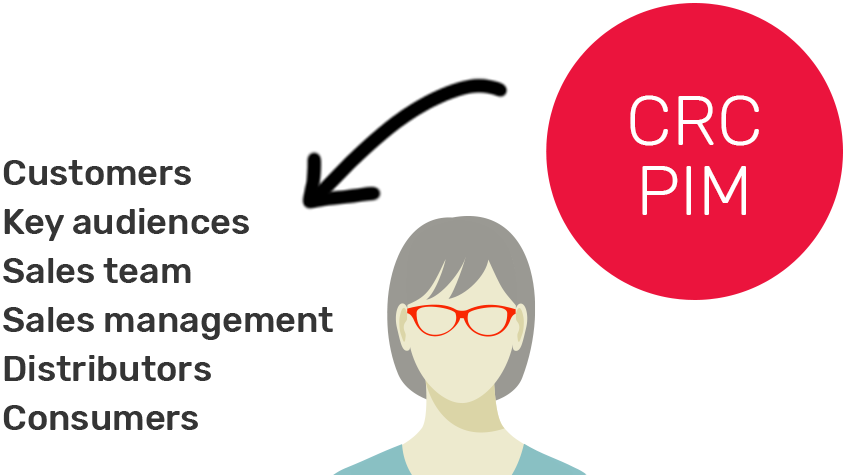
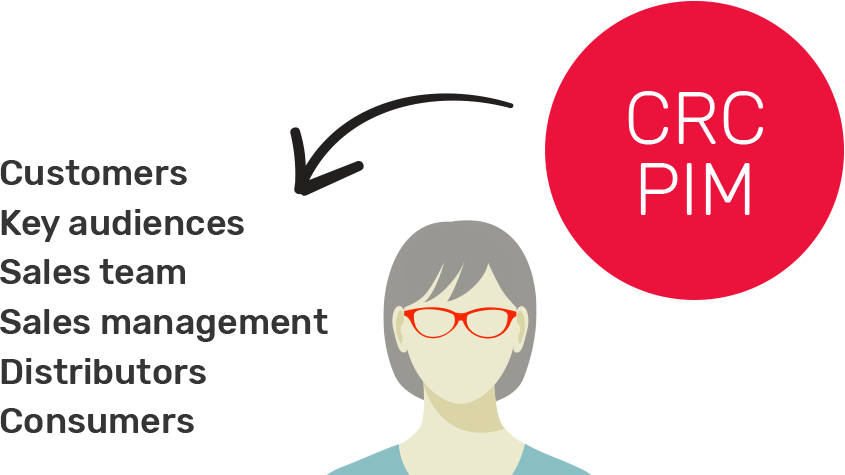
Minor styling edits.

diff --git a/index.html b/index.html
@@ -8,7 +8,7 @@
 		<title>CRC PIM</title>
 		<link rel="stylesheet" href="https://fonts.googleapis.com/css?family=Rubik:300,300i,400,400i,500,500i">
 		<link rel="stylesheet" href="css/animations.css">
-		<link rel="stylesheet" href="css/app.css?ver=1.1">
+		<link rel="stylesheet" href="css/app.css?ver=1.2">
 	</head>
 	<body>
 		<div class="grid-container">
